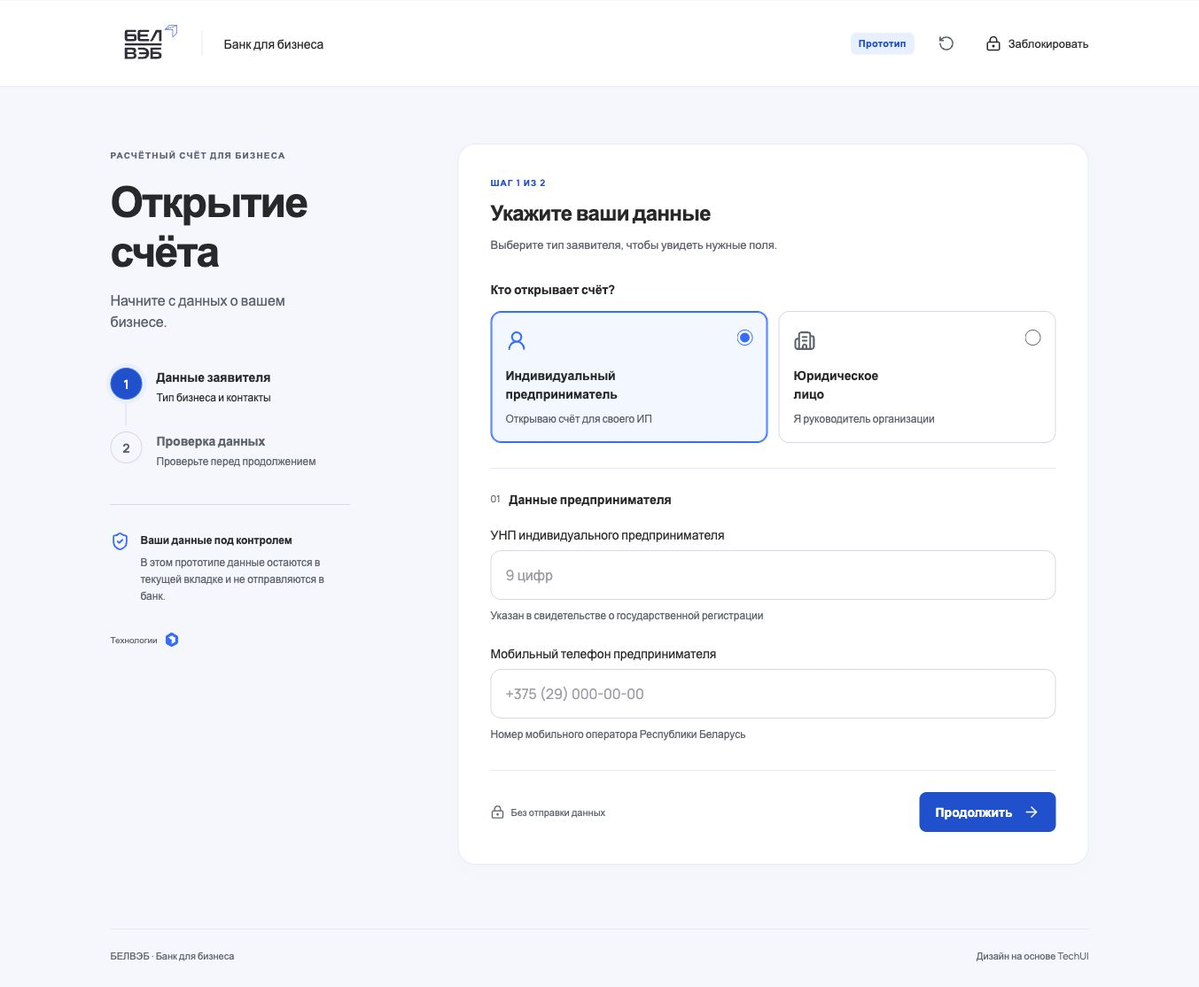
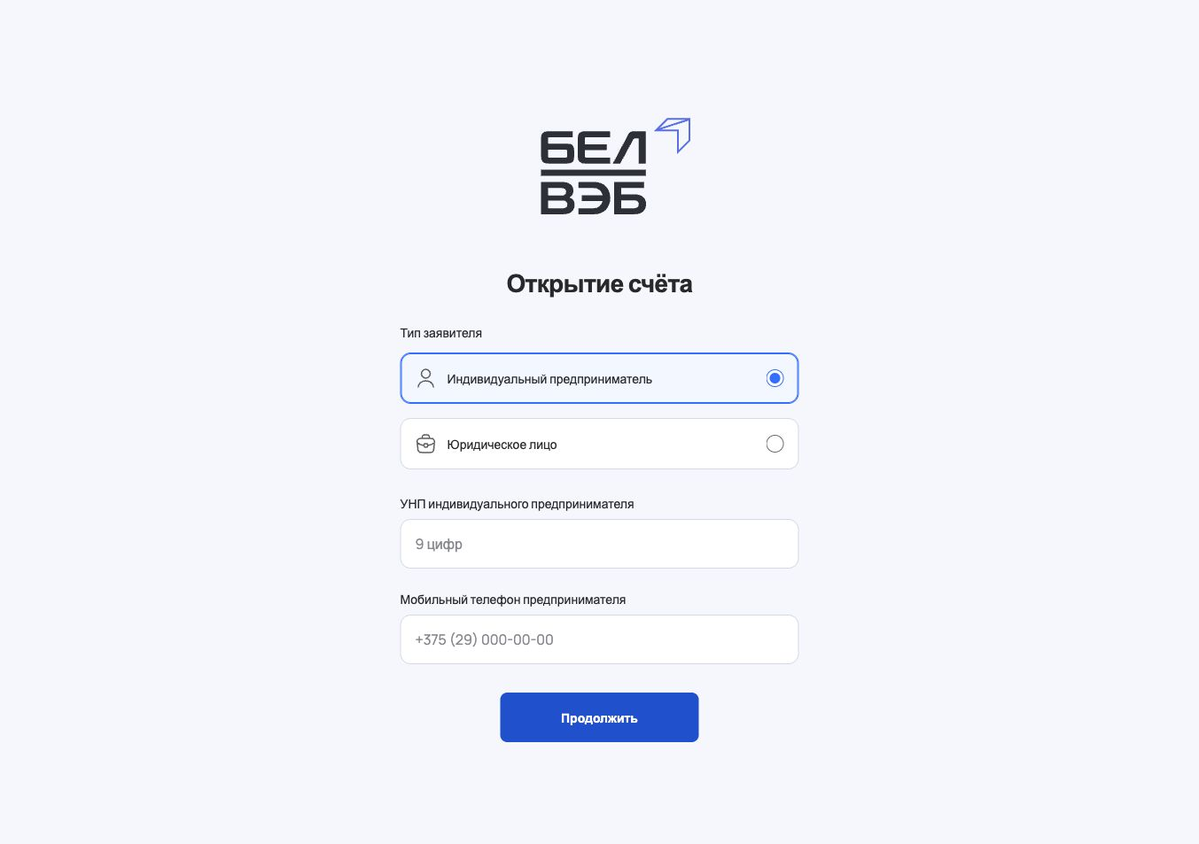
Update Site source

diff --git a/app/globals.css b/app/globals.css
@@ -1,21 +1,105 @@
-@font-face{font-family:Manrope;src:url('/assets/manrope.woff2') format('woff2');font-weight:200 800;font-style:normal;font-display:swap}
-:root{--primary:#3b79ff;--text:#2c2d2e;--muted:#737780;--subtle:#919399;--background:#f7f8fc;--border:#d9dee8;--divider:#e9edf5;--error:#ed0a34;--blue-light:#ebf2ff}
-*{box-sizing:border-box}body{margin:0;background:var(--background);color:var(--text);font:400 14px/1.5 Manrope,Arial,sans-serif}button,input{font:inherit}button{cursor:pointer;border:0}button svg{flex-shrink:0}button:focus-visible,a:focus-visible,input:focus-visible,summary:focus-visible{outline:3px solid #a7c3ff;outline-offset:4px}input{accent-color:var(--primary)}h1,h2,h3,p{margin:0}fieldset{padding:0;margin:0;border:0;min-width:0}legend{padding:0}h2:focus{outline:none}.skip{position:fixed;top:-100px;left:24px;z-index:100;background:white;padding:12px;border-radius:8px;color:var(--primary)}.skip:focus{top:12px}
-.header{background:#fff;border-bottom:1px solid var(--divider)}.header-inner{height:96px;max-width:1200px;padding:0 48px;margin:auto;display:flex;align-items:center;justify-content:space-between;gap:20px}.brand{display:flex;align-items:center;gap:24px}.brand img{width:79px;height:54px;object-fit:contain}.brand-divider{height:28px;width:1px;background:var(--divider)}.brand-text{font-size:14px;font-weight:500}.header-actions{display:flex;gap:16px;align-items:center}.prototype{background:var(--blue-light);color:#235ad1;border-radius:6px;padding:4px 9px;font-size:11px;font-weight:700;letter-spacing:.3px}.icon-button{height:40px;width:40px;background:transparent;color:var(--muted);border-radius:8px;display:inline-flex;align-items:center;justify-content:center}.icon-button:hover{background:var(--background);color:var(--text)}.lock-button{display:flex;align-items:center;gap:8px;background:transparent;color:var(--text);font-size:13px;font-weight:500;padding:10px 0 10px 8px;border-radius:8px}.lock-button:hover{color:var(--primary)}
-.layout{max-width:1200px;margin:0 auto;padding:64px 48px 72px;display:grid;grid-template-columns:320px minmax(0,1fr);gap:72px;align-items:start}.intro{padding-top:6px}.eyebrow{font-size:10px;font-weight:700;letter-spacing:1.2px;color:#657082;margin-bottom:16px}.intro h1{font-size:48px;line-height:56px;font-weight:700;letter-spacing:-1.6px}.intro-copy{font-size:16px;line-height:24px;color:var(--muted);max-width:230px;margin-top:16px}.steps{list-style:none;margin:40px 0;padding:0}.step{display:flex;gap:16px;position:relative;padding-bottom:30px;color:var(--subtle)}.step:not(:last-child):after{content:'';height:24px;width:1px;background:var(--border);position:absolute;left:17px;top:41px}.step:last-child{padding-bottom:0}.step-number{width:36px;height:36px;flex-shrink:0;display:flex;align-items:center;justify-content:center;border:1px solid var(--border);border-radius:50%;font-size:14px;font-weight:700;background:var(--background)}.step strong{display:block;font-size:14px;font-weight:700;line-height:20px}.step div>span{display:block;font-size:12px;line-height:18px;margin-top:4px}.step.current{color:var(--text)}.step.current .step-number{background:var(--primary);color:white;border-color:var(--primary);box-shadow:0 0 0 5px #3b79ff0d}.step.completed .step-number{color:var(--primary);border-color:#d2e1ff;background:#ebf2ff}.step.completed strong{color:var(--text)}.privacy{display:flex;gap:12px;padding-top:28px;border-top:1px solid var(--border);max-width:270px}.privacy>svg{flex-shrink:0;color:var(--primary);margin-top:2px}.privacy strong{font-size:12px;font-weight:700}.privacy p{font-size:12px;line-height:19px;color:var(--muted);margin-top:6px}.powered{display:flex;align-items:center;gap:9px;font-size:10px;color:var(--muted);margin-top:32px}.powered img{height:16px;width:65px;object-fit:contain;object-position:left}
-.form-card{background:white;border:1px solid var(--divider);border-radius:20px;padding:36px;box-shadow:0 6px 24px #00103d03;min-width:0}.card-heading{margin-bottom:30px}.step-caption{font-size:10px;letter-spacing:1px;font-weight:700;color:var(--primary);margin-bottom:10px}.card-heading h2{font-size:24px;line-height:32px;font-weight:700;letter-spacing:-.6px}.card-heading>p{font-size:13px;line-height:20px;color:var(--muted);margin-top:10px}.applicants legend{font-weight:700;margin-bottom:14px}.choice-grid{display:grid;grid-template-columns:1fr 1fr;gap:12px}.applicant{position:relative;border:1px solid var(--border);border-radius:12px;padding:20px 16px 18px;display:flex;flex-direction:column;cursor:pointer;transition:background .15s,border-color .15s;min-width:0}.applicant:hover{border-color:#9abaff;background:#f9fbff}.applicant.selected{border-color:var(--primary);background:#f5f8ff;box-shadow:inset 0 0 0 1px var(--primary)}.applicant input{position:absolute;right:16px;top:20px;width:18px;height:18px;margin:0;cursor:pointer}.choice-icon{color:var(--muted);margin-bottom:16px}.selected .choice-icon{color:var(--primary)}.applicant strong{font-size:14px;line-height:21px;font-weight:700}.applicant>span{font-size:11px;line-height:17px;color:var(--muted);margin-top:8px}.empty-guidance{display:flex;gap:10px;color:var(--muted);font-size:12px;line-height:19px;background:var(--background);padding:16px;border-radius:10px;margin-top:24px}.empty-guidance svg{flex-shrink:0;color:#919399;margin-top:1px}.form-footer{border-top:1px solid var(--divider);display:flex;align-items:center;justify-content:space-between;gap:16px;padding-top:24px;margin-top:32px}.footer-note{display:flex;align-items:center;gap:7px;color:var(--muted);font-size:10px;line-height:16px}.button{min-height:44px;border-radius:8px;font-size:13px;line-height:18px;padding:13px 18px;font-weight:700;display:inline-flex;align-items:center;justify-content:center;gap:12px;transition:background .15s}.primary{background:var(--primary);color:white}.primary:hover{background:#0458f5}.primary:active{background:#0549c8}.secondary{background:var(--blue-light);color:#235ad1}.secondary:hover{background:#d8e5ff}
-.fields-area{margin-top:28px}.section-heading{display:flex;gap:10px;align-items:center;margin:0 0 20px;padding-top:24px;border-top:1px solid var(--divider)}.section-marker{color:var(--subtle);font-size:11px}.section-heading h3{font-size:14px;line-height:20px;font-weight:700}.field{margin-bottom:24px}.field>label{display:block;font-size:13px;line-height:20px;font-weight:500;margin-bottom:8px}.field>input{height:56px;width:100%;border:1px solid var(--border);border-radius:12px;background:white;color:var(--text);padding:16px;font-size:16px;line-height:20px;font-weight:500;transition:border-color .15s}.field>input:hover{border-color:#919399}.field>input:focus{outline:0;border-color:var(--primary);box-shadow:0 0 0 3px #3b79ff1a}.field>input::placeholder{color:#a5a7ad;font-weight:400}.field>input[aria-invalid=true]{border-color:var(--error)}.hint,.error{font-size:11px;line-height:17px;margin-top:8px}.hint{color:var(--muted)}.error{color:#c9092f}.eligibility{background:var(--background);border-radius:8px;padding:12px 14px;margin-bottom:24px}.eligibility summary{font-size:11px;line-height:18px;font-weight:500;cursor:pointer;list-style:none;display:flex;align-items:center;justify-content:space-between;gap:10px}.eligibility summary::-webkit-details-marker{display:none}.eligibility[open] svg{transform:rotate(180deg)}.eligibility>p{font-size:12px;line-height:20px;margin-top:12px;color:var(--muted)}.confirmation-heading{margin-top:28px}.check-field{margin-bottom:22px}.check-label{display:flex;align-items:flex-start;gap:12px;cursor:pointer;font-size:12px;line-height:20px}.check-label input,.inline-radios input{width:18px;height:18px;flex-shrink:0;margin:2px 0 0;cursor:pointer}.muted{color:var(--muted)}.check-hint{padding-left:30px}.owners{margin-top:28px}.owners legend{font-size:12px;line-height:20px;font-weight:700}.inline-radios{display:flex;gap:28px;margin-top:14px}.inline-radios label{display:flex;align-items:center;gap:9px;font-size:13px;cursor:pointer}.inline-radios input{margin:0}.page-footer{max-width:1104px;margin:0 auto;padding:22px 0 28px;border-top:1px solid var(--divider);display:flex;justify-content:space-between;color:var(--muted);font-size:10px}
-.review-type{display:flex;align-items:center;gap:12px;background:var(--background);padding:16px;border-radius:12px}.review-type>svg{color:var(--primary);flex-shrink:0}.review-type strong{font-size:13px;line-height:20px}.tag{font-size:10px;color:#177a48;background:#e6f8ee;border-radius:5px;padding:3px 7px;margin-left:auto}.review dl{margin:12px 0 24px}.review dl>div{padding:17px 0;border-bottom:1px solid var(--divider);display:flex;gap:20px;justify-content:space-between}.review dt{font-size:12px;line-height:20px;color:var(--muted)}.review dd{font-size:13px;line-height:20px;font-weight:700;margin:0;text-align:right;flex-shrink:0}.info-box{display:flex;align-items:flex-start;gap:12px;padding:16px;background:var(--blue-light);border-radius:10px;color:#234798;font-size:12px;line-height:20px}.info-box>svg{flex-shrink:0;margin-top:1px}.done{text-align:center;padding:16px 0 8px}.success-icon{color:#0a9951;display:flex;justify-content:center;margin-bottom:20px}.done h3{font-size:20px;line-height:28px}.done p{font-size:13px;color:var(--muted);line-height:22px;margin:12px auto 28px;max-width:390px}.dialog{border:1px solid var(--divider);padding:28px;border-radius:20px;width:480px;max-width:calc(100% - 32px);color:var(--text);box-shadow:0 24px 60px #00103d20}.dialog::backdrop{background:#00103d60;backdrop-filter:blur(3px)}.dialog-top{display:flex;align-items:center;justify-content:space-between;color:var(--primary);margin-bottom:16px}.dialog h2{font-size:24px;line-height:32px}.dialog p{margin-top:12px;color:var(--muted)}.dialog-actions{display:flex;justify-content:flex-end;gap:10px;margin-top:28px}.dialog-actions .button{font-size:11px;padding:12px}.lock-screen{position:fixed;inset:0;background:var(--background);z-index:100;display:grid;place-items:center;padding:24px}.lock-content{width:400px;max-width:100%;text-align:center}.lock-content>img{height:66px;width:96px;object-fit:contain;margin-bottom:40px}.lock-symbol{background:var(--blue-light);color:var(--primary);border-radius:50%;height:64px;width:64px;margin:0 auto 24px;display:grid;place-items:center}.lock-content h2{font-size:24px;line-height:32px}.lock-content p{color:var(--muted);font-size:14px;line-height:22px;margin:16px 0 28px}
-@media(min-width:1500px){.layout{padding-top:80px;padding-bottom:96px}}
-@media(max-width:1050px){.layout{gap:36px;grid-template-columns:260px minmax(0,1fr);padding:48px 32px 64px}.header-inner{padding:0 32px}.form-card{padding:28px}.intro h1{font-size:42px;line-height:50px}.page-footer{margin:0 32px}}
-@media(max-width:800px){.layout{grid-template-columns:1fr;gap:28px;padding:32px 24px 48px;max-width:650px}.header-inner{height:80px;padding:0 24px}.brand img{width:64px;height:44px}.brand{gap:16px}.brand-text{font-size:12px}.header-actions{gap:8px}.intro h1{font-size:32px;line-height:42px;letter-spacing:-.8px}.desktop-break{display:none}.intro-copy{max-width:none;font-size:14px;margin-top:8px}.eyebrow{margin-bottom:8px;font-size:9px}.steps{display:flex;margin:24px 0 0;gap:20px}.step{padding:0;flex:1;gap:10px}.step:not(:last-child):after{display:none}.step strong{font-size:12px}.step div>span{font-size:10px;margin-top:2px}.step-number{width:30px;height:30px;font-size:12px}.privacy,.powered{display:none}.form-card{padding:28px}.page-footer{margin:0 24px}.brand-divider{height:22px}}
-@media(max-width:480px){.header-inner{height:72px;padding:0 16px;gap:12px}.brand-text,.brand-divider{display:none}.brand img{width:60px;height:40px}.prototype{font-size:9px;padding:3px 6px}.header-actions{gap:4px}.lock-button{font-size:11px;gap:6px}.lock-button svg{width:16px}.icon-button{width:36px;height:36px}.layout{padding:28px 16px 36px;gap:24px}.intro{padding:0}.intro h1{font-size:32px;line-height:40px}.steps{gap:12px}.step div>span{line-height:15px;max-width:115px}.step{gap:8px}.form-card{border-radius:16px;padding:24px 20px}.card-heading{margin-bottom:24px}.card-heading h2{font-size:22px;line-height:30px}.card-heading>p{font-size:12px;line-height:19px}.choice-grid{gap:10px}.applicant{padding:16px 12px}.applicant input{right:12px;top:17px;width:17px;height:17px}.applicant strong{font-size:12px;line-height:19px}.applicant>span{font-size:10px;line-height:16px}.choice-icon{width:23px;margin-bottom:14px}.form-footer{flex-wrap:wrap;gap:14px;margin-top:24px;padding-top:20px}.form-footer>.primary{flex:1;min-width:150px}.footer-note{font-size:9px;max-width:90px;gap:5px}.footer-note svg{flex-shrink:0}.button{font-size:12px;padding:13px 14px;gap:8px}.review .form-footer>.button{flex:1}.review .form-footer>.primary{min-width:0}.review-type{flex-wrap:wrap}.tag{margin-left:36px}.review dl>div{gap:14px}.review dd{flex-shrink:1}.review dt{max-width:60%}.page-footer{margin:0 16px;font-size:9px;gap:20px}.dialog-actions{flex-direction:column-reverse}.field>label{font-size:12px}}
-@media(prefers-reduced-motion:reduce){*{scroll-behavior:auto!important;transition:none!important}}
-
-/* Readability adjustments using the extended TechUI palette. */
-:root{--subtle:#737780}
-.button{font-size:14px}.primary,.step.current .step-number{background:#235ad1}.primary:hover{background:#0458f5}.primary:active{background:#0549c8}
-.applicant>span{font-size:12px;line-height:18px}.hint,.error{font-size:12px;line-height:18px}.footer-note{font-size:11px}.field>label{font-size:14px}.check-label,.owners legend{font-size:14px;line-height:22px}.eligibility summary{font-size:12px;line-height:20px}.page-footer{font-size:11px}.step-caption{color:#235ad1}.lock-screen{border:0;margin:0;width:100vw;max-width:none;height:100vh;max-height:none;color:var(--text)}.lock-screen:not([open]){display:none}.lock-screen::backdrop{background:var(--background)}
-@media(max-width:480px){.button{font-size:13px}.applicant>span{font-size:12px;line-height:18px}.applicant strong{font-size:13px;line-height:20px}.choice-grid{grid-template-columns:1fr}.applicant{padding:16px 44px 16px 52px}.applicant strong br{display:none}.choice-icon{position:absolute;left:16px;top:18px;margin:0}.applicant>span{margin-top:4px}.applicant input{top:20px;right:16px}.form-footer>.primary{min-width:140px}.footer-note{font-size:11px;max-width:95px}.step div>span{font-size:11px}.hint,.error{font-size:12px}.check-label,.owners legend{font-size:14px}.page-footer{font-size:10px}.field>label{font-size:14px}}
-
-:root{--muted:#686e78;--subtle:#686e78}
+@font-face {
+  font-family: Manrope;
+  src: url('/assets/manrope.woff2') format('woff2');
+  font-weight: 200 800;
+  font-display: swap;
+}
+:root {
+  --primary: #3b79ff;
+  --text: #2c2d2e;
+  --muted: #686e78;
+  --background: #f7f8fc;
+  --border: #d9dee8;
+  --divider: #e9edf5;
+  --error: #c9092f;
+}
+* { box-sizing: border-box; }
+body { margin: 0; background: var(--background); color: var(--text); font: 400 14px/1.5 Manrope, Arial, sans-serif; }
+button, input { font: inherit; }
+button { cursor: pointer; border: 0; }
+button svg { flex-shrink: 0; }
+button:focus-visible, a:focus-visible, input:focus-visible, summary:focus-visible { outline: 3px solid #a7c3ff; outline-offset: 4px; }
+input { accent-color: var(--primary); }
+h1, h2, h3, p { margin: 0; }
+fieldset { padding: 0; margin: 0; border: 0; min-width: 0; }
+legend { padding: 0; }
+h1:focus { outline: none; }
+.skip { position: fixed; top: -100px; left: 24px; z-index: 10; background: white; padding: 12px; color: var(--primary); }
+.skip:focus { top: 12px; }
+.app { min-height: 100svh; display: flex; padding: 56px 24px; }
+.layout { width: min(100%, 450px); margin: auto; }
+.form-logo { display: block; margin: 0 auto 32px; object-fit: contain; }
+.form-card { min-width: 0; }
+.card-heading { margin-bottom: 28px; text-align: center; }
+.card-heading h1 { font-size: 28px; line-height: 36px; font-weight: 700; letter-spacing: -.6px; }
+.applicants legend { font-size: 14px; font-weight: 500; margin-bottom: 12px; }
+.choice-grid { display: grid; grid-template-columns: 1fr; gap: 16px; }
+.applicant { position: relative; border: 1px solid var(--border); border-radius: 12px; padding: 16px; background: #fff; display: flex; align-items: center; gap: 12px; cursor: pointer; transition: background .15s, border-color .15s; min-width: 0; }
+.applicant:hover { border-color: #9abaff; background: #f9fbff; }
+.applicant.selected { border-color: var(--primary); background: #f5f8ff; box-shadow: inset 0 0 0 1px var(--primary); }
+.applicant input { width: 20px; height: 20px; margin: 0 0 0 auto; flex-shrink: 0; cursor: pointer; order: 3; }
+.applicant-icon { flex-shrink: 0; }
+.applicant strong { font-size: 14px; line-height: 22px; font-weight: 500; }
+.fields-area { margin-top: 28px; }
+.field { margin-bottom: 24px; }
+.field > label { display: block; font-size: 14px; line-height: 20px; font-weight: 500; margin-bottom: 8px; }
+.field > input { height: 56px; width: 100%; border: 1px solid var(--border); border-radius: 12px; background: white; color: var(--text); padding: 16px; font-size: 16px; line-height: 20px; font-weight: 500; transition: border-color .15s; }
+.field > input:hover { border-color: #919399; }
+.field > input:focus { outline: 0; border-color: var(--primary); box-shadow: 0 0 0 3px #3b79ff1a; }
+.field > input::placeholder { color: #919399; font-weight: 400; }
+.field > input[aria-invalid=true] { border-color: var(--error); }
+.hint, .error { font-size: 12px; line-height: 18px; margin-top: 8px; }
+.hint, .muted { color: var(--muted); }
+.error { color: var(--error); }
+.eligibility { background: var(--background); border-radius: 8px; padding: 12px 14px; margin-bottom: 24px; }
+.eligibility summary { font-size: 13px; line-height: 20px; cursor: pointer; list-style: none; display: flex; align-items: center; justify-content: space-between; gap: 10px; }
+.eligibility summary::-webkit-details-marker { display: none; }
+.eligibility[open] svg { transform: rotate(180deg); }
+.eligibility > p { font-size: 13px; line-height: 22px; margin-top: 12px; color: var(--muted); }
+.section-heading { padding-top: 24px; margin-bottom: 20px; border-top: 1px solid var(--divider); }
+.section-heading h3 { font-size: 16px; line-height: 24px; font-weight: 700; }
+.confirmation-heading { margin-top: 28px; }
+.check-field { margin-bottom: 22px; }
+.check-label { display: flex; align-items: flex-start; gap: 12px; cursor: pointer; font-size: 14px; line-height: 22px; }
+.check-label input, .inline-radios input { width: 20px; height: 20px; flex-shrink: 0; margin: 2px 0 0; cursor: pointer; }
+.check-hint { padding-left: 32px; }
+.owners { margin-top: 28px; }
+.owners legend { font-size: 14px; line-height: 22px; font-weight: 500; }
+.inline-radios { display: flex; gap: 28px; margin-top: 14px; }
+.inline-radios label { display: flex; align-items: center; gap: 9px; font-size: 14px; cursor: pointer; min-height: 36px; }
+.inline-radios input { margin: 0; }
+.form-footer { display: flex; justify-content: center; gap: 12px; margin-top: 32px; }
+.button { min-height: 56px; min-width: 224px; border-radius: 8px; font-size: 14px; line-height: 20px; padding: 14px 24px; font-weight: 700; display: inline-flex; align-items: center; justify-content: center; gap: 12px; transition: background .15s; }
+.primary { background: #235ad1; color: white; }
+.primary:hover { background: #0458f5; }
+.primary:active { background: #0549c8; }
+.secondary { background: #ebf2ff; color: #235ad1; }
+.secondary:hover { background: #d8e5ff; }
+.review-type { display: flex; align-items: center; gap: 12px; background: var(--background); padding: 16px; border-radius: 12px; }
+.review-type > img { flex-shrink: 0; }
+.review-type strong { font-size: 14px; line-height: 22px; }
+.tag { font-size: 12px; color: #177a48; background: #e6f8ee; border-radius: 5px; padding: 3px 7px; margin-left: auto; }
+.review dl { margin: 12px 0 24px; }
+.review dl > div { padding: 18px 0; border-bottom: 1px solid var(--divider); display: flex; gap: 20px; justify-content: space-between; }
+.review dt { font-size: 14px; line-height: 22px; color: var(--muted); }
+.review dd { font-size: 14px; line-height: 22px; font-weight: 700; margin: 0; text-align: right; }
+.review .form-footer { justify-content: space-between; }
+.review .button { min-width: 0; }
+.done { padding-top: 8px; text-align: center; }
+@media (max-width: 600px) {
+  .app { padding: 32px 20px; }
+  .form-logo { margin-bottom: 24px; }
+  .card-heading { margin-bottom: 28px; }
+  .card-heading h1 { font-size: 24px; line-height: 32px; }
+  .choice-grid { grid-template-columns: 1fr; }
+  .applicant { padding: 16px; }
+  .form-footer > .primary { width: 100%; }
+  .review .form-footer { flex-direction: column-reverse; }
+  .review-type { flex-wrap: wrap; }
+  .tag { margin-left: 36px; }
+  .review dt { max-width: 62%; }
+  .review dl > div { gap: 14px; }
+}
+@media (prefers-reduced-motion: reduce) {
+  * { scroll-behavior: auto !important; transition: none !important; }
+}

diff --git a/app/page.tsx b/app/page.tsx
@@ -1,6 +1,6 @@
 "use client";
 import { useRef, useState } from "react";
-import { ArrowRight, ArrowLeft, Check, ShieldCheck, RotateCcw, LockKeyhole, UserRound, Building2, Info, CircleCheck, X, ChevronDown } from "lucide-react";
+import { ArrowLeft, Check, RotateCcw, ChevronDown } from "lucide-react";
 type Kind = "ip" | "company" | "";
 type Errors = Partial<Record<"kind" | "unp" | "phone" | "consent" | "fatca" | "owners", string>>;
 const companyDescription = "Являюсь руководителем юридического лица (ООО, ОДО, унитарного предприятия) – коммерческой организации – резидента Республики Беларусь, и действую на основании Устава/контракта. Юридическое лицо не является бюджетной организацией или профессиональным участником рынка ценных бумаг.";
@@ -13,15 +13,12 @@ export default function Home() {
   const [owners, setOwners] = useState("");
   const [errors, setErrors] = useState<Errors>({});
   const [stage, setStage] = useState<"form" | "review" | "done">("form");
-  const lockDialog = useRef<HTMLDialogElement>(null);
-  const resetDialog = useRef<HTMLDialogElement>(null);
   const heading = useRef<HTMLHeadingElement>(null);
   const form = useRef<HTMLFormElement>(null);
   const isCompany = kind === "company";
   const clearError = (key: keyof Errors) => setErrors(e => ({ ...e, [key]: undefined }));
   function reset() {
     setKind(""); setUnp(""); setPhone(""); setConsent(false); setFatca(false); setOwners(""); setErrors({}); setStage("form");
-    resetDialog.current?.close();
   }
   function changeKind(value: Kind) {setKind(value);setConsent(false);setFatca(false);setOwners("");setErrors({});}
   function changeStage(value: "form" | "review" | "done") {
@@ -46,47 +43,31 @@ export default function Home() {
   }
   return <div className="app">
     <a href="#main" className="skip">К основной форме</a>
-    <header className="header"><div className="header-inner">
-      <div className="brand"><img src="/assets/belweb.svg" alt="БЕЛВЭБ"/><span className="brand-divider"/><span className="brand-text">Банк для бизнеса</span></div>
-      <div className="header-actions"><span className="prototype">Прототип</span><button className="icon-button" onClick={() => resetDialog.current?.showModal()} aria-label="Начать заново" title="Начать заново"><RotateCcw size={19}/></button><button className="lock-button" onClick={() => lockDialog.current?.showModal()}><LockKeyhole size={18}/><span>Заблокировать</span></button></div>
-    </div></header>
     <main id="main" className="layout">
-      <aside className="intro"><div className="eyebrow">РАСЧЁТНЫЙ СЧЁТ ДЛЯ БИЗНЕСА</div><h1>Открытие<br className="desktop-break"/> счёта</h1><p className="intro-copy">Начните с данных о вашем бизнесе.</p>
-        <ol className="steps" aria-label="Этапы заполнения">
-          <li className={stage === "form" ? "step current" : "step completed"} aria-current={stage === "form" ? "step" : undefined}><span className="step-number">{stage === "form" ? "1" : <Check size={17}/>}</span><div><strong>Данные заявителя</strong><span>Тип бизнеса и контакты</span></div></li>
-          <li className={stage !== "form" ? "step current" : "step"} aria-current={stage !== "form" ? "step" : undefined}><span className="step-number">{stage === "done" ? <Check size={17}/> : "2"}</span><div><strong>Проверка данных</strong><span>Проверьте перед продолжением</span></div></li>
-        </ol>
-        <div className="privacy"><ShieldCheck size={22}/><div><strong>Ваши данные под контролем</strong><p>В этом прототипе данные остаются в текущей вкладке и не отправляются в банк.</p></div></div>
-        <div className="powered">Технологии <img src="/assets/vebtech.svg" alt="Vebtech"/></div>
-      </aside>
+      <img className="form-logo" src="/assets/figma-belweb.svg" alt="БЕЛВЭБ" width="214" height="154"/>
       <section className="form-card" aria-label="Открытие счёта">
-        <div className="card-heading"><div className="step-caption">ШАГ {stage === "form" ? "1" : "2"} ИЗ 2</div><h2 ref={heading} tabIndex={-1}>{stage === "form" ? "Укажите ваши данные" : stage === "review" ? "Проверьте данные" : "Всё готово к следующему шагу"}</h2><p>{stage === "form" ? "Выберите тип заявителя, чтобы увидеть нужные поля." : stage === "review" ? "Убедитесь, что информация указана верно." : "Вы прошли демонстрационный сценарий открытия счёта."}</p></div>
+        <div className="card-heading"><h1 ref={heading} tabIndex={-1}>{stage === "form" ? "Открытие счёта" : stage === "review" ? "Проверьте данные" : "Просмотр завершён"}</h1></div>
         {stage === "form" && <form ref={form} onSubmit={submit} noValidate>
-          <fieldset className="applicants"><legend>Кто открывает счёт?</legend><div className="choice-grid">
-            <label className={`applicant ${kind === "ip" ? "selected" : ""}`}><input type="radio" name="kind" value="ip" checked={kind === "ip"} onChange={() => changeKind("ip")} aria-invalid={!!errors.kind} aria-describedby={errors.kind ? "kind-error" : undefined}/><UserRound className="choice-icon" size={25}/><strong>Индивидуальный<br/> предприниматель</strong><span>Открываю счёт для своего ИП</span></label>
-            <label className={`applicant ${isCompany ? "selected" : ""}`}><input type="radio" name="kind" value="company" checked={isCompany} onChange={() => changeKind("company")} aria-invalid={!!errors.kind}/><Building2 className="choice-icon" size={25}/><strong>Юридическое<br/> лицо</strong><span>Я руководитель организации</span></label>
+          <fieldset className="applicants"><legend>Тип заявителя</legend><div className="choice-grid">
+            <label className={`applicant ${kind === "ip" ? "selected" : ""}`}><input type="radio" name="kind" value="ip" checked={kind === "ip"} onChange={() => changeKind("ip")} aria-invalid={!!errors.kind} aria-describedby={errors.kind ? "kind-error" : undefined}/><img className="applicant-icon" src="/assets/figma-user.svg" alt="" width="24" height="24"/><strong>Индивидуальный предприниматель</strong></label>
+            <label className={`applicant ${isCompany ? "selected" : ""}`}><input type="radio" name="kind" value="company" checked={isCompany} onChange={() => changeKind("company")} aria-invalid={!!errors.kind}/><img className="applicant-icon" src="/assets/figma-briefcase.svg" alt="" width="24" height="24"/><strong>Юридическое лицо</strong></label>
           </div>{errors.kind && <p className="error" id="kind-error" role="alert">{errors.kind}</p>}</fieldset>
           {kind && <div className="fields-area">
             {isCompany && <details className="eligibility"><summary>Кому подходит этот способ открытия <ChevronDown size={17}/></summary><p>{companyDescription}</p></details>}
-            <div className="section-heading"><span className="section-marker">01</span><h3>Данные {isCompany ? "организации" : "предпринимателя"}</h3></div>
-            <div className="field"><label htmlFor="unp">УНП {isCompany ? "юридического лица" : "индивидуального предпринимателя"}</label><input id="unp" type="text" inputMode="numeric" autoComplete="off" maxLength={9} placeholder="9 цифр" value={unp} onChange={e => {setUnp(e.target.value.replace(/\D/g,""));clearError("unp");}} aria-invalid={!!errors.unp} aria-describedby="unp-hint"/><p id="unp-hint" className={errors.unp ? "error" : "hint"}>{errors.unp || "Указан в свидетельстве о государственной регистрации"}</p></div>
-            <div className="field"><label htmlFor="phone">Мобильный телефон {isCompany ? "руководителя" : "предпринимателя"}</label><input id="phone" type="tel" inputMode="tel" autoComplete="tel" placeholder="+375 (29) 000-00-00" value={phone} onChange={e => {setPhone(e.target.value.replace(/[^+\d ()-]/g, "").slice(0,22));clearError("phone");}} aria-invalid={!!errors.phone} aria-describedby="phone-hint" onBlur={() => setPhone(formatPhone(phone))}/><p id="phone-hint" className={errors.phone ? "error" : "hint"}>{errors.phone || "Номер мобильного оператора Республики Беларусь"}</p></div>
+            <div className="field"><label htmlFor="unp">УНП {isCompany ? "юридического лица" : "индивидуального предпринимателя"}</label><input id="unp" type="text" inputMode="numeric" autoComplete="off" maxLength={9} placeholder="9 цифр" value={unp} onChange={e => {setUnp(e.target.value.replace(/\D/g,""));clearError("unp");}} aria-invalid={!!errors.unp} aria-describedby={errors.unp ? "unp-hint" : undefined}/>{errors.unp && <p id="unp-hint" className="error">{errors.unp}</p>}</div>
+            <div className="field"><label htmlFor="phone">Мобильный телефон {isCompany ? "руководителя" : "предпринимателя"}</label><input id="phone" type="tel" inputMode="tel" autoComplete="tel" placeholder="+375 (29) 000-00-00" value={phone} onChange={e => {setPhone(e.target.value.replace(/[^+\d ()-]/g, "").slice(0,22));clearError("phone");}} aria-invalid={!!errors.phone} aria-describedby={errors.phone ? "phone-hint" : undefined} onBlur={() => setPhone(formatPhone(phone))}/>{errors.phone && <p id="phone-hint" className="error">{errors.phone}</p>}</div>
             {isCompany && <>
-              <div className="section-heading confirmation-heading"><span className="section-marker">02</span><h3>Подтверждения</h3></div>
+              <div className="section-heading confirmation-heading"><h3>Подтверждения</h3></div>
               <div className="check-field"><label className="check-label"><input type="checkbox" checked={consent} onChange={e=>{setConsent(e.target.checked);clearError("consent");}} aria-invalid={!!errors.consent} aria-describedby={errors.consent ? "consent-error" : undefined}/><span>Даю согласие на предоставление данных из МСИ <span className="muted">(Межбанковская система идентификации)</span></span></label>{errors.consent && <p className="error" id="consent-error">{errors.consent}</p>}</div>
-              <div className="check-field"><label className="check-label"><input type="checkbox" checked={fatca} onChange={e=>{setFatca(e.target.checked);clearError("fatca");}} aria-invalid={!!errors.fatca} aria-describedby={errors.fatca ? "fatca-error" : undefined}/><span>Подтверждаю, что юридическое лицо и/или его существенные собственники не являются налоговыми резидентами США.</span></label>{errors.fatca && <p className="error" id="fatca-error">{errors.fatca}</p>}<p className="hint check-hint">Если вы не можете подтвердить это условие, открытие счёта требует консультации в банке.</p></div>
+              <div className="check-field"><label className="check-label"><input type="checkbox" checked={fatca} onChange={e=>{setFatca(e.target.checked);clearError("fatca");}} aria-invalid={!!errors.fatca} aria-describedby={errors.fatca ? "fatca-error" : undefined}/><span>Подтверждаю, что юридическое лицо и/или его существенные собственники не являются налоговыми резидентами США.</span></label>{errors.fatca && <p className="error" id="fatca-error">{errors.fatca}</p>}</div>
               <fieldset className="owners"><legend>В состав участников входят только физические лица?</legend><div className="inline-radios">{["Да","Нет"].map(v=><label key={v}><input type="radio" name="owners" checked={owners===v} onChange={()=>{setOwners(v);clearError("owners");}} aria-invalid={!!errors.owners} aria-describedby={errors.owners ? "owners-error" : undefined}/>{v}</label>)}</div>{errors.owners && <p className="error" id="owners-error">{errors.owners}</p>}</fieldset>
             </>}
           </div>}
-          {!kind && <div className="empty-guidance"><Info size={19}/><span>Для ИП и юридических лиц нужны разные данные. Начните с выбора типа бизнеса.</span></div>}
-          <div className="form-footer"><div className="footer-note"><LockKeyhole size={16}/><span>Без отправки данных</span></div><button className="button primary" type="submit">Продолжить <ArrowRight size={19}/></button></div>
+          <div className="form-footer"><button className="button primary" type="submit">Продолжить</button></div>
         </form>}
-        {stage === "review" && <div className="review"><div className="review-type">{isCompany ? <Building2 size={24}/> : <UserRound size={24}/>}<strong>{isCompany ? "Юридическое лицо" : "Индивидуальный предприниматель"}</strong><span className="tag">Заполнено</span></div><dl><div><dt>УНП</dt><dd>{unp}</dd></div><div><dt>Мобильный телефон</dt><dd>{phone}</dd></div>{isCompany && <><div><dt>Согласие на предоставление данных из МСИ</dt><dd>Дано</dd></div><div><dt>Налоговое резидентство</dt><dd>Подтверждено</dd></div><div><dt>Участники — только физические лица</dt><dd>{owners}</dd></div></>}</dl><div className="info-box"><Info size={20}/><p>Это прототип. Проверка УНП в реестре и отправка заявки в банк не выполняются.</p></div><div className="form-footer"><button className="button secondary" onClick={()=>changeStage("form")}><ArrowLeft size={18}/> Изменить</button><button className="button primary" onClick={()=>changeStage("done")}>Завершить просмотр <Check size={18}/></button></div></div>}
-        {stage === "done" && <div className="done"><div className="success-icon"><CircleCheck size={44}/></div><h3>Прототип проверен</h3><p>Заявка не отправлена, счёт не открыт.<br/>Вы можете вернуться к форме и посмотреть другой сценарий.</p><button className="button primary" onClick={reset}><RotateCcw size={18}/> Вернуться к началу</button></div>}
+        {stage === "review" && <div className="review"><div className="review-type"><img src={isCompany ? "/assets/figma-briefcase.svg" : "/assets/figma-user.svg"} alt="" width="24" height="24"/><strong>{isCompany ? "Юридическое лицо" : "Индивидуальный предприниматель"}</strong><span className="tag">Заполнено</span></div><dl><div><dt>УНП</dt><dd>{unp}</dd></div><div><dt>Мобильный телефон</dt><dd>{phone}</dd></div>{isCompany && <><div><dt>Согласие на предоставление данных из МСИ</dt><dd>Дано</dd></div><div><dt>Налоговое резидентство</dt><dd>Подтверждено</dd></div><div><dt>Участники — только физические лица</dt><dd>{owners}</dd></div></>}</dl><div className="form-footer"><button className="button secondary" onClick={()=>changeStage("form")}><ArrowLeft size={18}/> Изменить</button><button className="button primary" onClick={()=>changeStage("done")}>Завершить просмотр <Check size={18}/></button></div></div>}
+        {stage === "done" && <div className="done"><button className="button primary" onClick={reset}><RotateCcw size={18}/> Вернуться к началу</button></div>}
       </section>
     </main>
-    <footer className="page-footer"><span>БЕЛВЭБ · Банк для бизнеса</span><span>Дизайн на основе TechUI</span></footer>
-    <dialog ref={resetDialog} className="dialog" aria-labelledby="reset-title"><div className="dialog-top"><RotateCcw size={25}/><button className="icon-button" aria-label="Закрыть" onClick={()=>resetDialog.current?.close()}><X size={20}/></button></div><h2 id="reset-title">Начать заново?</h2><p>Заполненные поля будут очищены.</p><div className="dialog-actions"><button className="button secondary" onClick={()=>resetDialog.current?.close()}>Продолжить заполнение</button><button className="button primary" onClick={reset}>Начать заново</button></div></dialog>
-    <dialog ref={lockDialog} className="lock-screen" aria-labelledby="lock-title"><div className="lock-content"><img src="/assets/belweb.svg" alt="БЕЛВЭБ"/><div className="lock-symbol"><LockKeyhole size={28}/></div><h2 id="lock-title">Просмотр приостановлен</h2><p>Данные формы скрыты. В прототипе можно продолжить без ключа доступа.</p><button className="button primary" onClick={()=>lockDialog.current?.close()}>Вернуться к форме <ArrowRight size={18}/></button></div></dialog>
   </div>;
 }

diff --git a/UX-AUDIT.md b/UX-AUDIT.md
@@ -4,6 +4,14 @@
 
 Источники: [текущий сайт](https://vebtech.online/) и [TechUI Storybook](https://tech-ui.lab.vebtech.by/).
 
+## Актуальная итерация после просмотра Figma
+
+По уточнению пользователя убраны шапка, футер, боковая колонка, шаги, карточные подзаголовки, пояснения о безопасности и демонстрационном режиме. Осталась одна форма шириной 450 px с логотипом, заголовком, вертикальным выбором типа, полями и основной кнопкой. Служебные подсказки заменены ошибками по необходимости. Полный текст условий юридического лица доступен по раскрытию.
+
+Через Figma MCP изучены Final Design и NEW OCT: `2102:24105`, `3298:29862`, `3298:29893`. Из Final Design взята узкая центральная композиция, из NEW OCT — вертикальный выбор типа заявителя. Оформление адаптировано к TechUI. Прогресс и системная строка телефона из старых макетов не перенесены по просьбе убрать лишнее. Логотип и иконки используются из макета.
+
+Разделы ниже описывают исходный аудит и первую итерацию; добавленные тогда шапка, футер, боковая колонка и информационные блоки удалены в текущей версии.
+
 ## Область проверки
 
 Проверены экран после входа, выбор ИП и юридического лица, условные поля и подтверждения. На исходном сайте не заполнялись персональные данные, не принимались согласия и не отправлялась заявка. Последующие банковские экраны не исследованы. Новый шаг проверки данных — проектное предложение для отдельного прототипа, а не воспроизведение неизвестной серверной логики.

diff --git a/README.md b/README.md
@@ -17,4 +17,8 @@ npm run build
 
 Основной интерфейс — `app/page.tsx`, оформление и токены — `app/globals.css`. Логотипы взяты с исходного сайта, Manrope — из TechUI Storybook. Результаты аудита, границы проверки и отличия от полноценной интеграции описаны в [UX-AUDIT.md](UX-AUDIT.md).
 
-Данные формы хранятся только в состоянии React текущей вкладки; обновление страницы очищает их. Кнопка блокировки демонстрирует скрытие формы и не заменяет реальную аутентификацию.
+Данные формы хранятся только в состоянии React текущей вкладки; обновление страницы очищает их.
+
+## Итерация по Figma
+
+Убраны шапка, футер, боковая колонка, шаги и пояснения о прототипе. Форма в одну колонку шириной 450 px, вертикальный выбор типа заявителя, одна основная кнопка. Композиция сверена с Final Design (`2102:24105`) и NEW OCT (`3298:29862`, `3298:29893`) в файле `jU2v2STdjmdazW8OHhHrA6`. Шрифт, цвета и поля сохранены из TechUI. Логотип и иконки загружены из Figma в `public/assets/figma-*.svg`.
